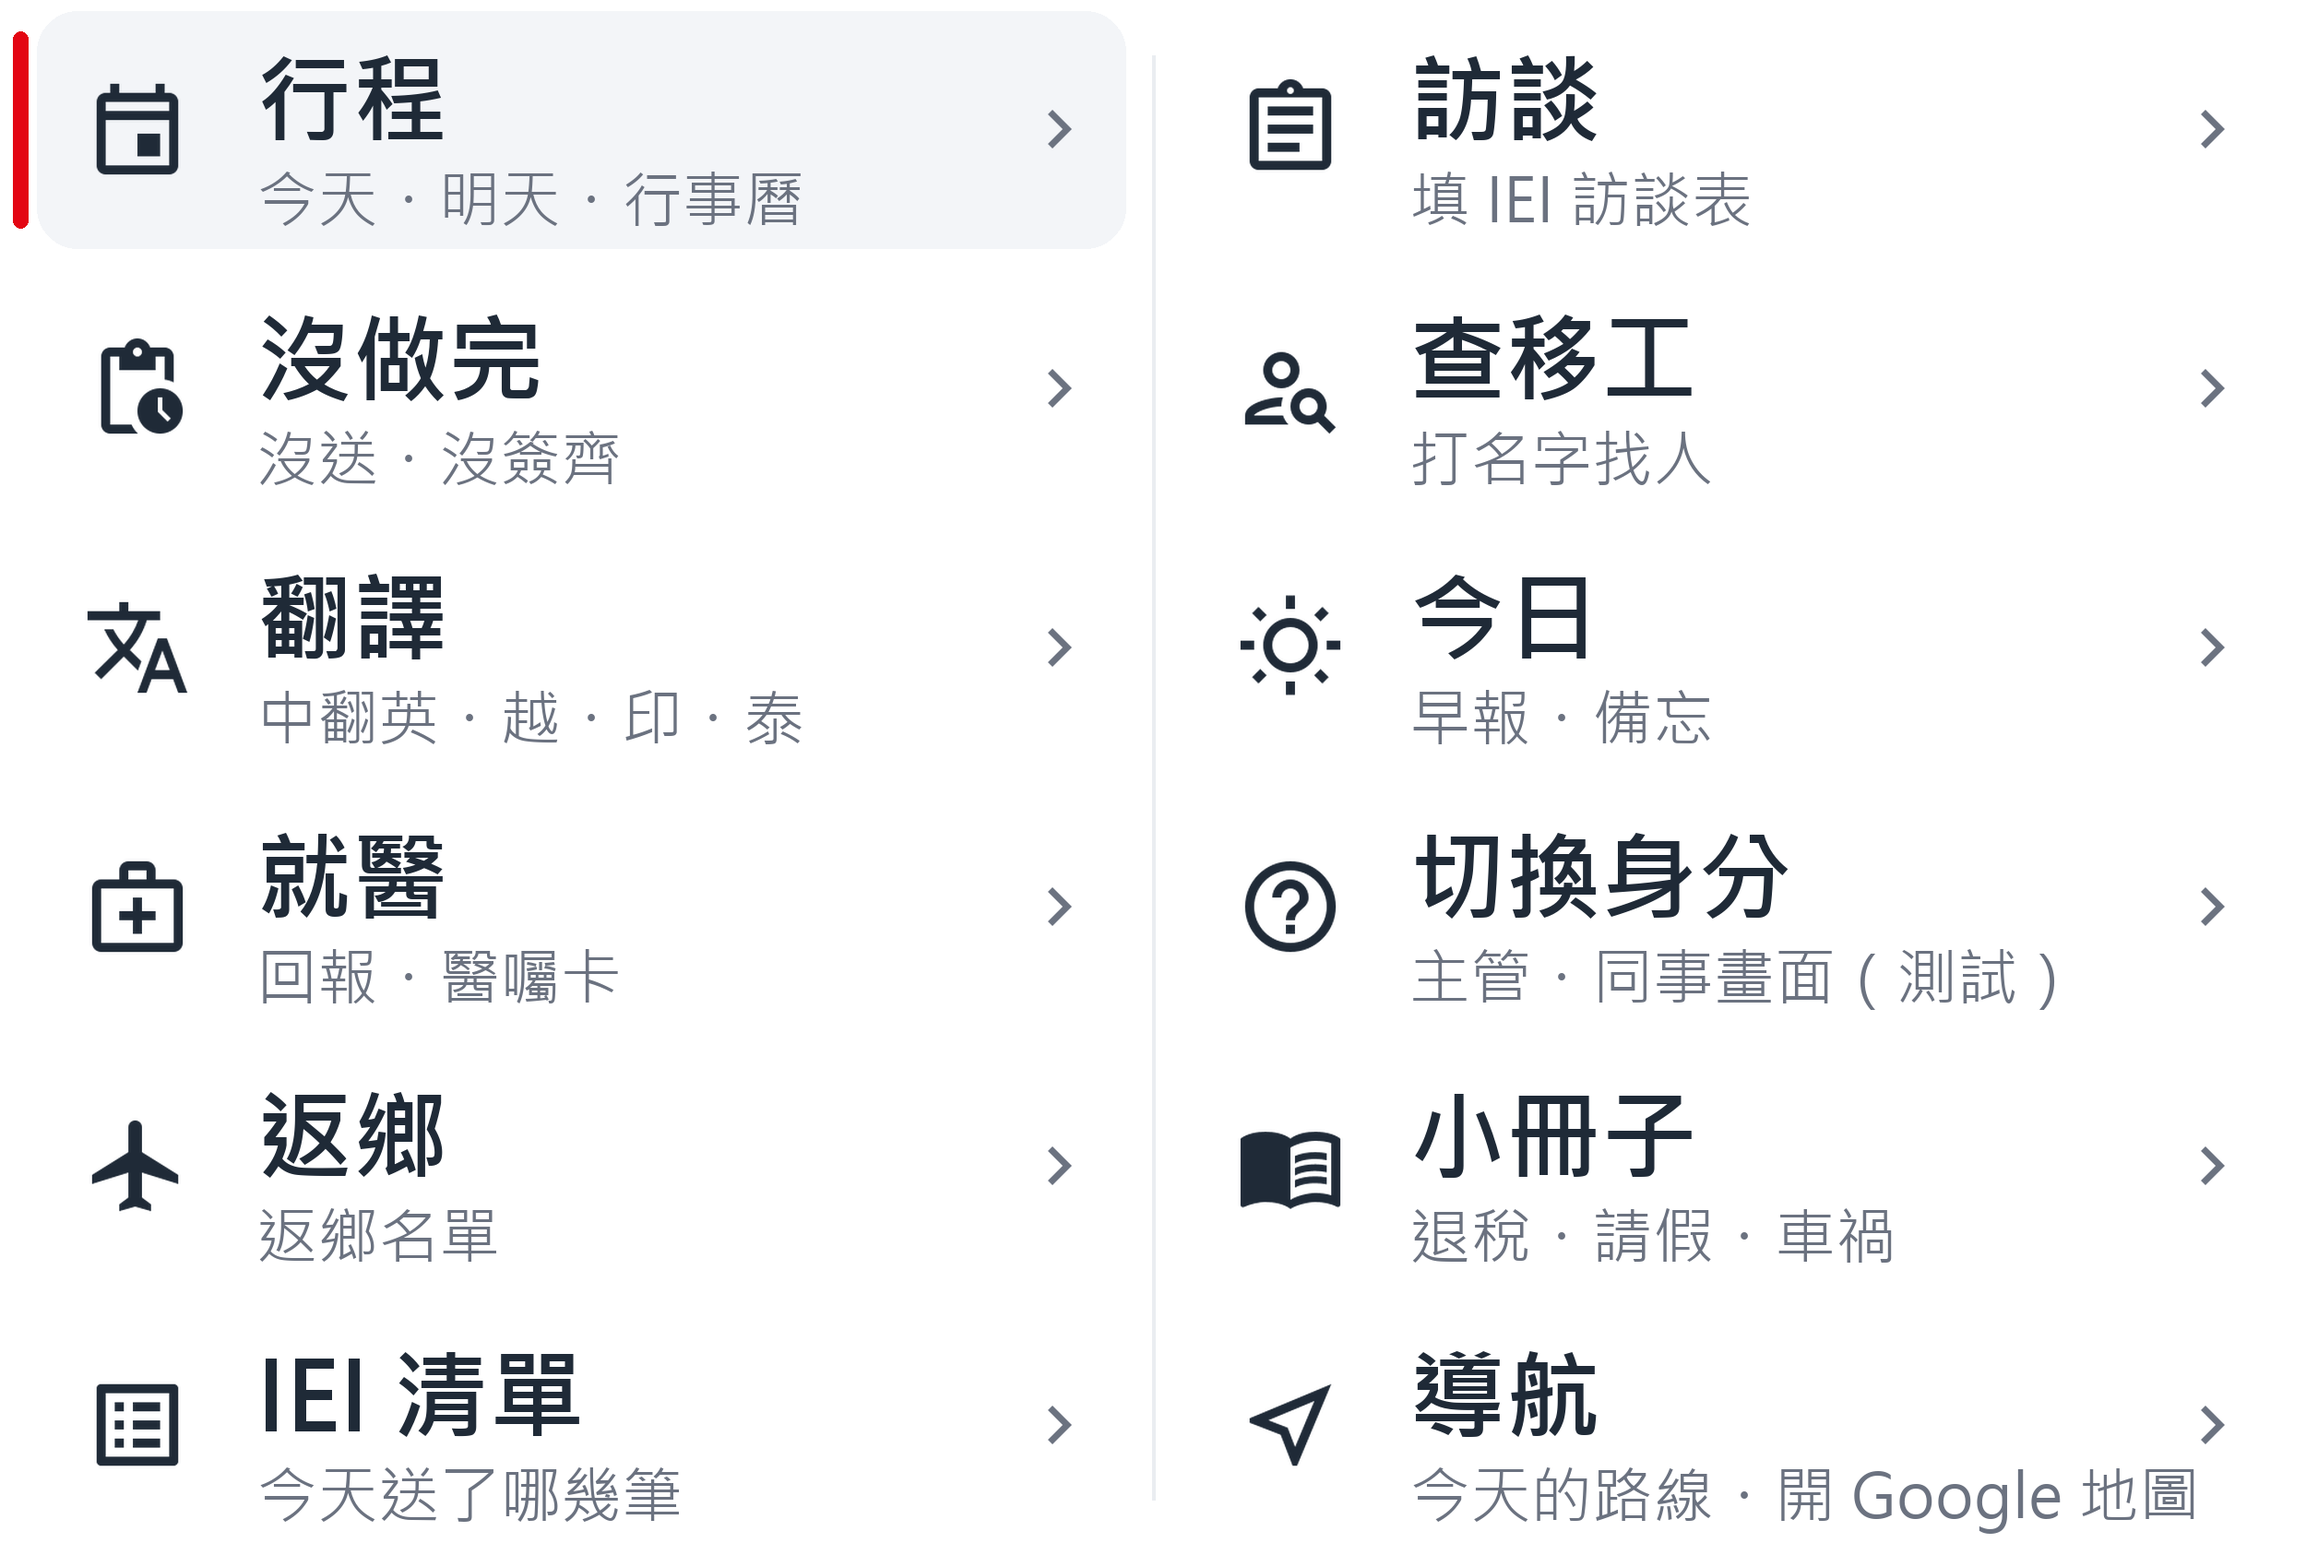
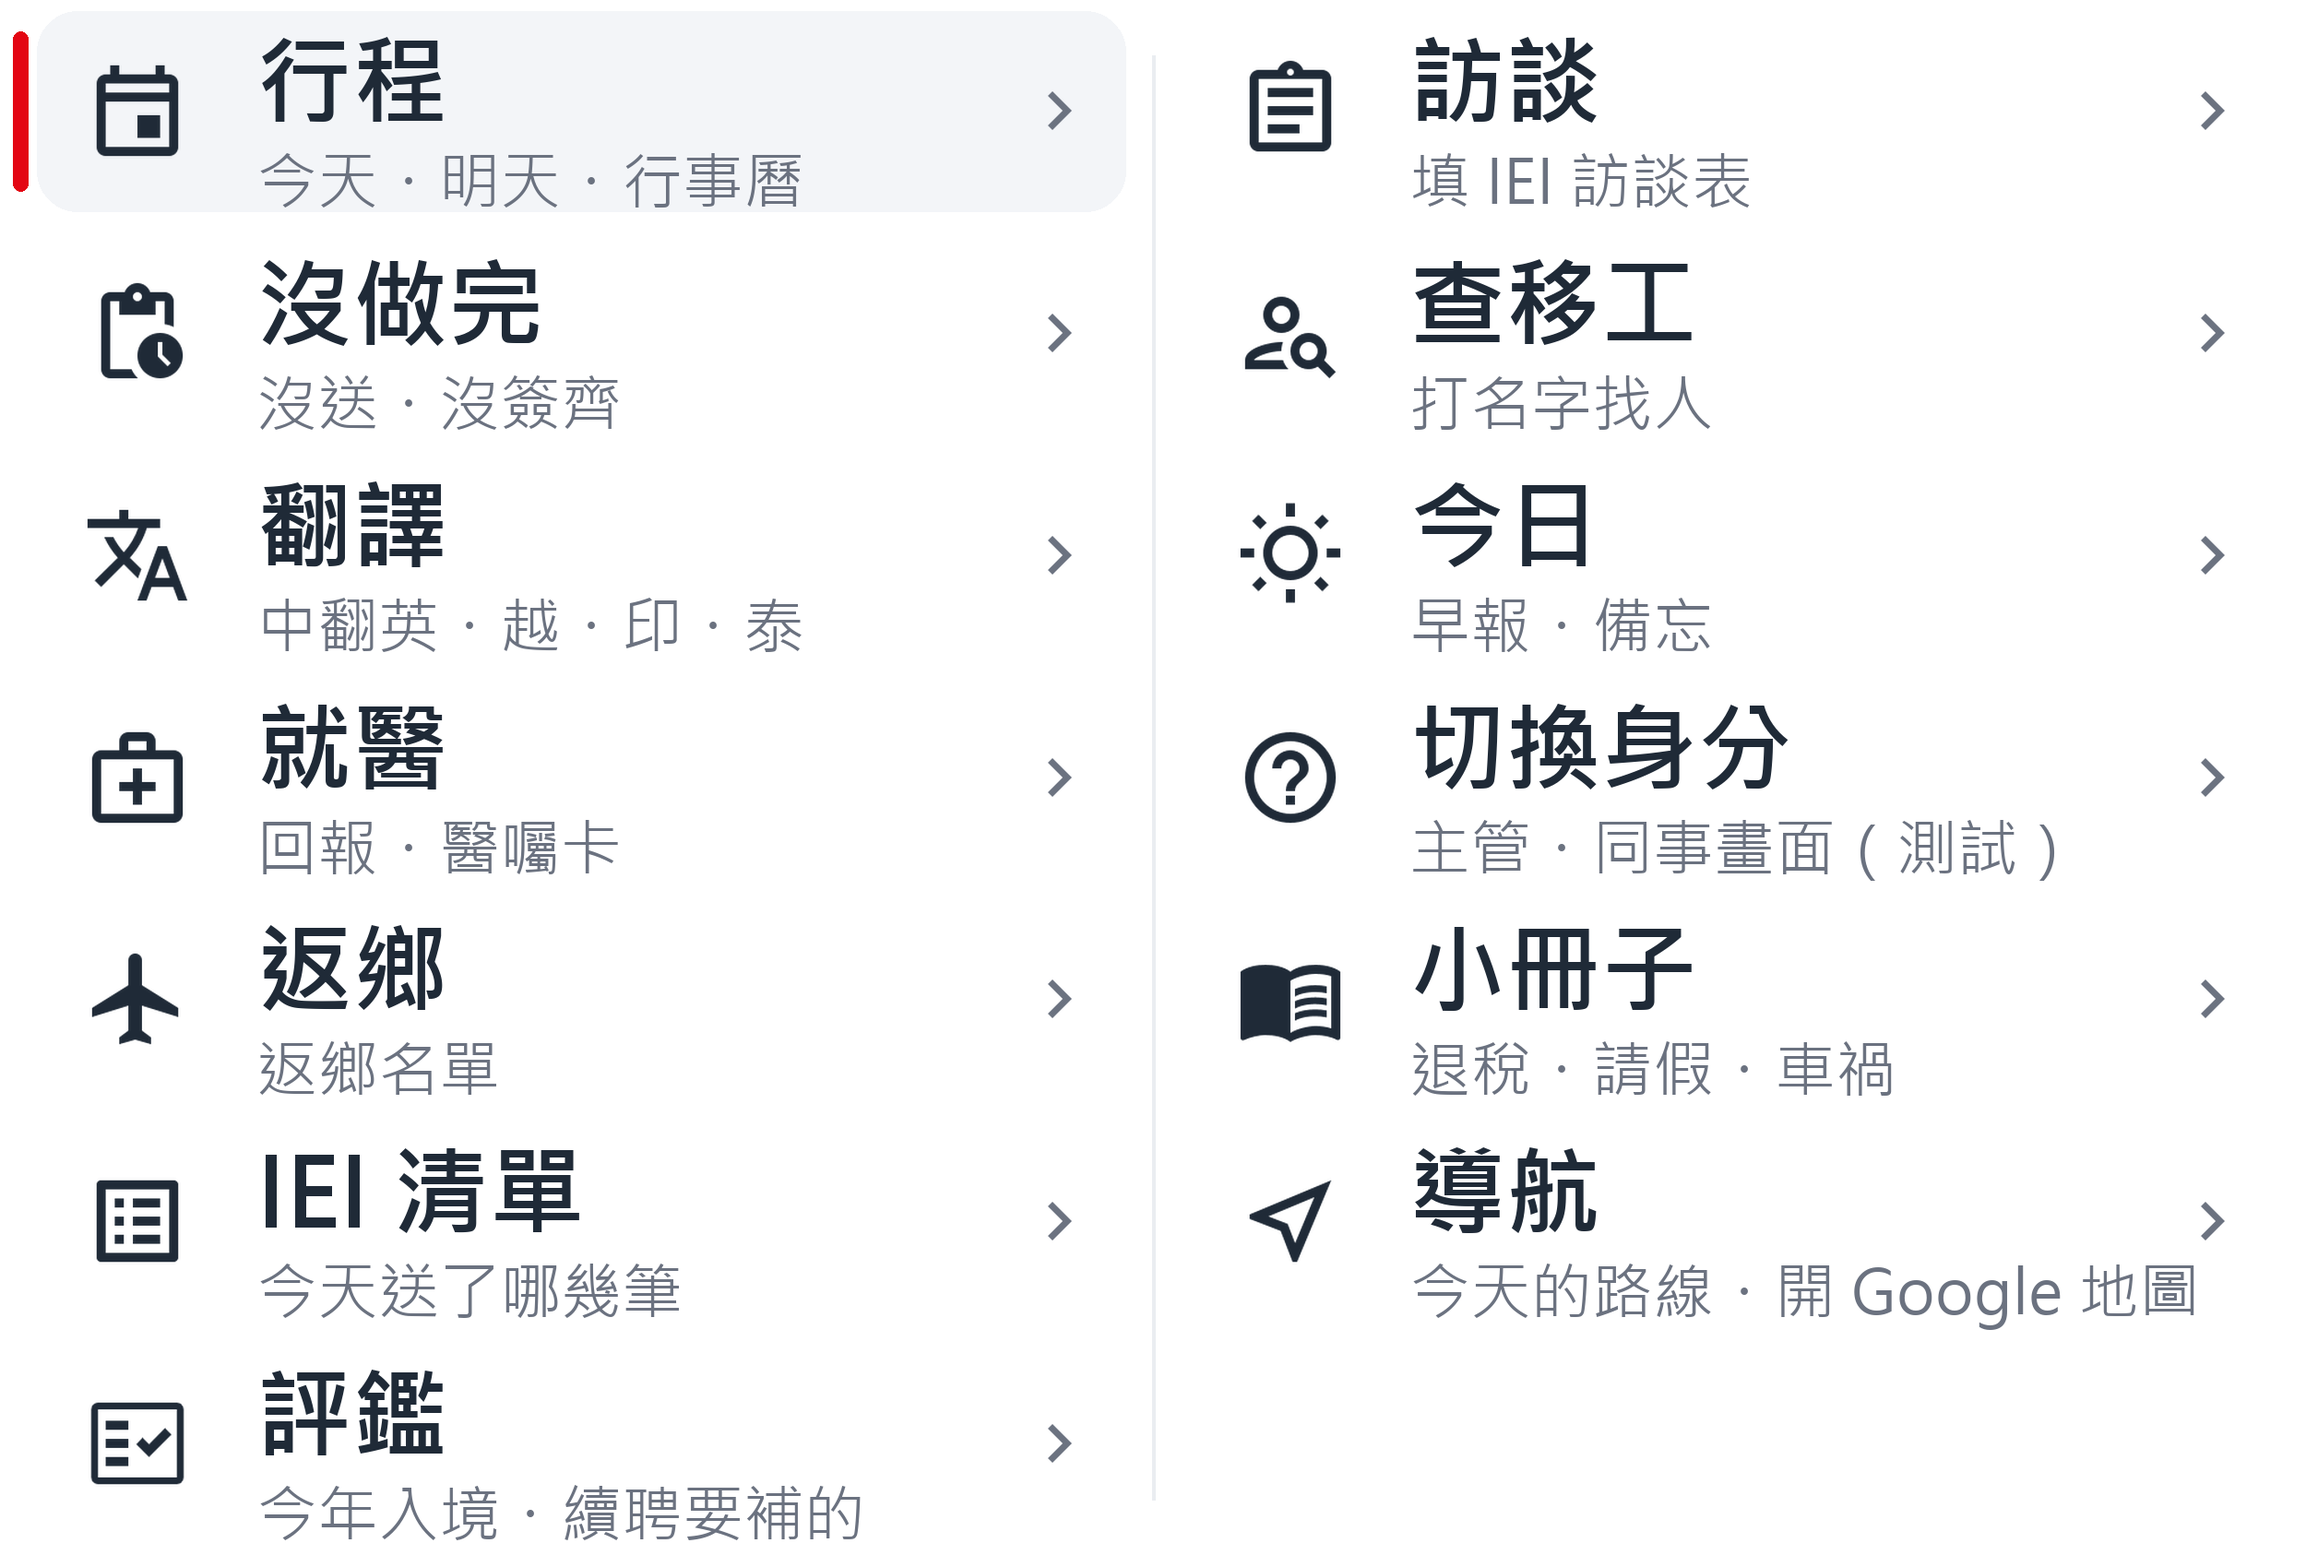
小禾：評鑑補件改成不說沒憑據的話，選單加第 13 格
- 起算月落在 IEI 還沒上線的月份 → 從第一個有資料的月份起算
  （原本會在那一格就停住，再被抹成灰的，整個人看起來沒問題——靜默說他沒事）
- 對不到 IEI 工人代碼的人標成「判斷不了」，不算缺件
- 預設篩成自己有紀錄的那個國籍（翻譯按國籍分，別人的工人看不到紀錄）
- 選單 12 格 → 13 格（兩欄 7 列），新圖示 fact_check

Claude-Session: https://claude.ai/code/session_01WMe1pavm2mSPgWgUHy5aeV

diff --git a/eval.js b/eval.js
@@ -61,8 +61,8 @@
   ].join('');
 
   var CH = 60;                                  // 一次畫幾列（565 人全畫手機會卡）
-  var J = null, NAT = '', SORT = 'gap', SHOW = CH, OPEN = null;
-  var root, body, el, api, LIFF_ID;
+  var J = null, NAT = null, SORT = 'gap', SHOW = CH, OPEN = null;
+  var root, body, el, api, LIFF_ID, MINE = '';
 
   function host() {
     var h = document.createElement('div');
@@ -95,6 +95,11 @@
 
   function rows() {
     var list = (J.rows || []).filter(function (r) { return !NAT || r.nat === NAT; });
+    if (SORT === 'gap') list = list.slice().sort(function (a, b) {
+      var ga = a.judged ? (a.cell.indexOf('miss') !== -1 ? 0 : (a.gaps || []).length ? 1 : 2) : 3;
+      var gb = b.judged ? (b.cell.indexOf('miss') !== -1 ? 0 : (b.gaps || []).length ? 1 : 2) : 3;
+      return ga - gb || (a.client || '').localeCompare(b.client || '');
+    });
     if (SORT === 'client') list = list.slice().sort(function (a, b) {
       return (a.client || '').localeCompare(b.client || '') || (a.name || '').localeCompare(b.name || '');
     });
@@ -120,6 +125,12 @@
     d.appendChild(mkEl('h3', r.name || r.orig));
     d.appendChild(mkEl('div', [r.client, r.nat, r.kind + ' ' + r.start + ' 月', r.status].filter(String).join('・'), { 'class': 'sub' }));
 
+    if (!r.judged) {
+      d.appendChild(mkEl('div', '這個人對不到 IEI 的工人代碼（名冊上的客戶名或中文名跟 IEI 不一樣），' +
+        '所以我查不到他的訪視紀錄——這不代表他真的沒被訪視，我不會把他算成缺件。' +
+        '要補的話請到訪談表自己搜尋這個人。', { 'class': 'note' }));
+      return d;
+    }
     var gaps = (r.gaps || []).slice();
     if (!gaps.length && !(r.re && r.re.state !== 'ok')) {
       d.appendChild(mkEl('div', '這一年到目前為止沒有缺口。', { 'class': 'note' }));
@@ -159,9 +170,10 @@
     if (!J) { body.appendChild(mkEl('div', '讀評鑑名單…（第一次要跟 IEI 要整年的月曆，約 10 秒）', { 'class': 'hint' })); return; }
     if (J.err) { body.appendChild(mkEl('div', J.err, { 'class': 'er' })); return; }
 
-    var all = J.rows || [];
-    var nMiss = 0, nNow = 0;
+    var all = (J.rows || []).filter(function (r) { return !NAT || r.nat === NAT; });
+    var nMiss = 0, nNow = 0, nUn = 0;
     all.forEach(function (r) {
+      if (!r.judged) { nUn++; return; }
       if (r.cell.indexOf('miss') !== -1 || (r.re && r.re.state === 'miss')) nMiss++;
       else if ((r.gaps || []).indexOf(J.nowM) !== -1) nNow++;
     });
@@ -178,10 +190,21 @@
     /* ⛔ 查不到的月份一定要講出來，不可以讓他以為那幾格是他的缺口 */
     if ((J.blind || []).length) {
       var w = mkEl('div', null, { 'class': 'warn' });
-      w.appendChild(mkEl('b', J.blind.join('、') + ' 月查不到任何紀錄'));
-      w.appendChild(mkEl('div', '這幾個月在 IEI 月曆和平台服務紀錄裡都是零筆——不是你沒去，是紀錄不在這兩個系統裡。' +
-        '所以那幾格畫成灰斜線，不算缺件、不會列進上面的數字。'));
+      w.appendChild(mkEl('b', J.blind.join('、') + ' 月沒有任何紀錄'));
+      w.appendChild(mkEl('div', 'IEI 是 ' + (J.first || 9) + ' 月才開始用的，那之前的紀錄不在系統裡。' +
+        '所以那幾格畫成灰斜線，不算缺件、不會列進上面的數字；每兩個月那條鏈也從 ' + (J.first || 9) + ' 月開始算。'));
       body.appendChild(w);
+    }
+    if (nUn) {
+      var u = mkEl('div', null, { 'class': 'note' });
+      u.appendChild(mkEl('b', '其中 ' + nUn + ' 人判斷不了'));
+      u.appendChild(document.createTextNode('：名冊上有這個人，但對不到 IEI 的工人代碼，' +
+        '所以「查不到紀錄」不代表真的沒訪視。他們整列是灰斜線，也不算進上面的數字。'));
+      body.appendChild(u);
+    }
+    if (MINE && NAT === MINE) {
+      body.appendChild(mkEl('div', '預設只看 ' + MINE + '：你在 IEI 的紀錄幾乎都是這個國籍（翻譯是按國籍分的）。' +
+        '別的國籍是別的翻譯負責，你的 IEI 帳號看不到他們填的紀錄，所以那邊會整片灰。按上面的籤可以切。', { 'class': 'note' }));
     }
 
     var nats = [];
@@ -206,7 +229,7 @@
     body.appendChild(seg);
 
     var lg = mkEl('div', null, { 'class': 'lg' });
-    [['ok', '有紀錄'], ['due', '該去'], ['miss', '已逾期'], ['nodata', '查不到'], ['free', '不用去']].forEach(function (x) {
+    [['ok', '有紀錄'], ['due', '該去'], ['miss', '已逾期'], ['nodata', '查不到／判斷不了'], ['free', '不用去']].forEach(function (x) {
       var s = mkEl('span');
       var i = mkEl('i', TXT[x[0]] || '', {});
       i.className = 'c ' + x[0];
@@ -251,7 +274,18 @@
     wrap.appendChild(body);
     root.appendChild(wrap);
     draw();
-    api({ api: 'eval' }).then(function (j) { J = j; draw(); })
+    api({ api: 'eval' }).then(function (j) {
+      J = j;
+      if (NAT === null) {           // 第一次：預設篩成「你有紀錄的那個國籍」（翻譯按國籍分，別人的工人你看不到紀錄）
+        var c = {};
+        (j.rows || []).forEach(function (r) { if (r.cell.indexOf('ok') !== -1) c[r.nat] = (c[r.nat] || 0) + 1; });
+        var best = '', n = 0;
+        for (var k in c) if (c[k] > n) { n = c[k]; best = k; }
+        NAT = n >= 3 ? best : '';
+        MINE = NAT;
+      }
+      draw();
+    })
       .catch(function (e) { J = { err: '讀不到：' + (e && e.message || e), rows: [] }; draw(); });
   };
 })();
